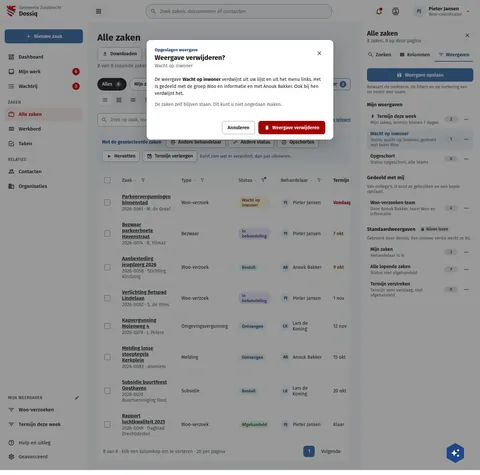
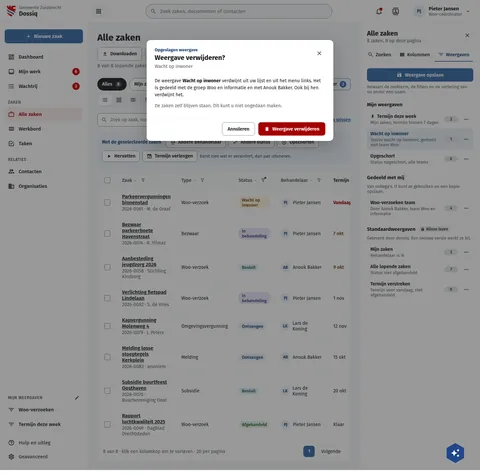
fix(screens): the saved-view dialogs set their subtitle on 21px
11 of the 15 Dq dialog boards draw the subtitle 14px on 21px (1.5)
(R20/dialog-subtitle-lineheight.md); DqFilterBewerken, DqFilterDelen and
DqFilterVerwijderen drew it at a normal line height (16.8). They follow
the majority; the 22px to the first field stays.

Assisted-by: ClaudeCode:claude-opus-5-5

Changed region(s): [[0.3125, 0.1179, 0.6875, 0.2947]]

diff --git a/preview/screens/boards/DqFilterBewerken.html b/preview/screens/boards/DqFilterBewerken.html
@@ -430,7 +430,7 @@ a{color:var(--sc-primary, #3669a5)}a:hover{color:var(--sc-primary-deep, #234a78)
 <div style="position: absolute; inset: 0; background: rgba(27,28,29,0.45); display: flex; flex-direction: column; align-items: center; gap: 20px; padding: 120px 16px 24px; box-sizing: border-box; font-family: var(--sc-font, 'Fira Sans'), system-ui, sans-serif; color: var(--sc-work-ink, #1b1c1d)">
   <div role="dialog" aria-modal="true" aria-labelledby="fd-kop" style="width: 100%; max-width: 640px; background: #ffffff; border-radius: 12px; box-shadow: 0 16px 48px rgba(27,28,29,0.28); display: flex; flex-direction: column">
     <div style="display: flex; justify-content: space-between; align-items: flex-start; gap: 16px; padding: 22px 24px 4px">
-      <div style="display: flex; flex-direction: column; gap: 4px"><span style="font-size: 13px; font-weight: 700; color: var(--sc-primary-deep, #234a78)">Opgeslagen weergave</span><h2 id="fd-kop" style="margin: 0; font-size: 20px; font-weight: 700">Weergave bewerken: Wacht op inwoner</h2><span style="font-size: 14px; color: var(--sc-work-muted, #5e6168)">Geef de weergave een andere naam, of vervang de criteria door wat nu in de lijst staat.</span></div>
+      <div style="display: flex; flex-direction: column; gap: 4px"><span style="font-size: 13px; font-weight: 700; color: var(--sc-primary-deep, #234a78)">Opgeslagen weergave</span><h2 id="fd-kop" style="margin: 0; font-size: 20px; font-weight: 700">Weergave bewerken: Wacht op inwoner</h2><span style="font-size: 14px; line-height: 21px; color: var(--sc-work-muted, #5e6168)">Geef de weergave een andere naam, of vervang de criteria door wat nu in de lijst staat.</span></div>
       <button type="button" aria-label="Sluiten" style="flex: none; width: 36px; height: 36px; display: inline-flex; align-items: center; justify-content: center; border: 0; border-radius: 18px; background: transparent; color: var(--sc-work-text, #3d4047)"><svg width="20" height="20" viewbox="0 0 24 24" fill="currentColor" aria-hidden="true"><path d="M19,6.41L17.59,5L12,10.59L6.41,5L5,6.41L10.59,12L5,17.59L6.41,19L12,13.41L17.59,19L19,17.59L13.41,12L19,6.41Z"></path></svg></button>
     </div>
 

diff --git a/preview/screens/boards/DqFilterDelen.html b/preview/screens/boards/DqFilterDelen.html
@@ -430,7 +430,7 @@ a{color:var(--sc-primary, #3669a5)}a:hover{color:var(--sc-primary-deep, #234a78)
 <div style="position: absolute; inset: 0; background: rgba(27,28,29,0.45); display: flex; flex-direction: column; align-items: center; gap: 20px; padding: 120px 16px 24px; box-sizing: border-box; font-family: var(--sc-font, 'Fira Sans'), system-ui, sans-serif; color: var(--sc-work-ink, #1b1c1d)">
   <div role="dialog" aria-modal="true" aria-labelledby="fd-kop" style="width: 100%; max-width: 640px; background: #ffffff; border-radius: 12px; box-shadow: 0 16px 48px rgba(27,28,29,0.28); display: flex; flex-direction: column">
     <div style="display: flex; justify-content: space-between; align-items: flex-start; gap: 16px; padding: 22px 24px 4px">
-      <div style="display: flex; flex-direction: column; gap: 4px"><span style="font-size: 13px; font-weight: 700; color: var(--sc-primary-deep, #234a78)">Opgeslagen weergave</span><h2 id="fd-kop" style="margin: 0; font-size: 20px; font-weight: 700">Weergave delen: Wacht op inwoner</h2><span style="font-size: 14px; color: var(--sc-work-muted, #5e6168)">Wie de weergave krijgt, ziet hem onder Gedeeld met mij. Hij is van u en blijft dat.</span></div>
+      <div style="display: flex; flex-direction: column; gap: 4px"><span style="font-size: 13px; font-weight: 700; color: var(--sc-primary-deep, #234a78)">Opgeslagen weergave</span><h2 id="fd-kop" style="margin: 0; font-size: 20px; font-weight: 700">Weergave delen: Wacht op inwoner</h2><span style="font-size: 14px; line-height: 21px; color: var(--sc-work-muted, #5e6168)">Wie de weergave krijgt, ziet hem onder Gedeeld met mij. Hij is van u en blijft dat.</span></div>
       <button type="button" aria-label="Sluiten" style="flex: none; width: 36px; height: 36px; display: inline-flex; align-items: center; justify-content: center; border: 0; border-radius: 18px; background: transparent; color: var(--sc-work-text, #3d4047)"><svg width="20" height="20" viewbox="0 0 24 24" fill="currentColor" aria-hidden="true"><path d="M19,6.41L17.59,5L12,10.59L6.41,5L5,6.41L10.59,12L5,17.59L6.41,19L12,13.41L17.59,19L19,17.59L13.41,12L19,6.41Z"></path></svg></button>
     </div>
 

diff --git a/preview/screens/boards/DqFilterVerwijderen.html b/preview/screens/boards/DqFilterVerwijderen.html
@@ -430,7 +430,7 @@ a{color:var(--sc-primary, #3669a5)}a:hover{color:var(--sc-primary-deep, #234a78)
 <div style="position: absolute; inset: 0; background: rgba(27,28,29,0.45); display: flex; flex-direction: column; align-items: center; gap: 20px; padding: 120px 16px 24px; box-sizing: border-box; font-family: var(--sc-font, 'Fira Sans'), system-ui, sans-serif; color: var(--sc-work-ink, #1b1c1d)">
   <div role="dialog" aria-modal="true" aria-labelledby="fd-kop" style="width: 100%; max-width: 560px; background: #ffffff; border-radius: 12px; box-shadow: 0 16px 48px rgba(27,28,29,0.28); display: flex; flex-direction: column">
     <div style="display: flex; justify-content: space-between; align-items: flex-start; gap: 16px; padding: 22px 24px 4px">
-      <div style="display: flex; flex-direction: column; gap: 4px"><span style="font-size: 13px; font-weight: 700; color: var(--sc-primary-deep, #234a78)">Opgeslagen weergave</span><h2 id="fd-kop" style="margin: 0; font-size: 20px; font-weight: 700">Weergave verwijderen?</h2><span style="font-size: 14px; color: var(--sc-work-muted, #5e6168)">Wacht op inwoner</span></div>
+      <div style="display: flex; flex-direction: column; gap: 4px"><span style="font-size: 13px; font-weight: 700; color: var(--sc-primary-deep, #234a78)">Opgeslagen weergave</span><h2 id="fd-kop" style="margin: 0; font-size: 20px; font-weight: 700">Weergave verwijderen?</h2><span style="font-size: 14px; line-height: 21px; color: var(--sc-work-muted, #5e6168)">Wacht op inwoner</span></div>
       <button type="button" aria-label="Sluiten" style="flex: none; width: 36px; height: 36px; display: inline-flex; align-items: center; justify-content: center; border: 0; border-radius: 18px; background: transparent; color: var(--sc-work-text, #3d4047)"><svg width="20" height="20" viewbox="0 0 24 24" fill="currentColor" aria-hidden="true"><path d="M19,6.41L17.59,5L12,10.59L6.41,5L5,6.41L10.59,12L5,17.59L6.41,19L12,13.41L17.59,19L19,17.59L13.41,12L19,6.41Z"></path></svg></button>
     </div>
 

diff --git a/screens-src/zuiddrecht/FilterDialoog.dc.html b/screens-src/zuiddrecht/FilterDialoog.dc.html
@@ -17,7 +17,7 @@ a{color:#3669a5}a:hover{color:#234a78}
 <div style="position: absolute; inset: 0; background: rgba(27,28,29,0.45); display: flex; flex-direction: column; align-items: center; gap: 20px; padding: 120px 16px 24px; box-sizing: border-box; font-family: 'Fira Sans', system-ui, sans-serif; color: #1b1c1d">
   <div role="dialog" aria-modal="true" aria-labelledby="fd-kop" style="{{ dialogStyle }}">
     <div style="display: flex; justify-content: space-between; align-items: flex-start; gap: 16px; padding: 22px 24px 4px">
-      <div style="display: flex; flex-direction: column; gap: 4px"><span style="font-size: 13px; font-weight: 700; color: #234a78">Opgeslagen weergave</span><h2 id="fd-kop" style="margin: 0; font-size: 20px; font-weight: 700">{{ heading }}</h2><span style="font-size: 14px; color: #5e6168">{{ intro }}</span></div>
+      <div style="display: flex; flex-direction: column; gap: 4px"><span style="font-size: 13px; font-weight: 700; color: #234a78">Opgeslagen weergave</span><h2 id="fd-kop" style="margin: 0; font-size: 20px; font-weight: 700">{{ heading }}</h2><span style="font-size: 14px; line-height: 21px; color: #5e6168">{{ intro }}</span></div>
       <button type="button" aria-label="Sluiten" style="flex: none; width: 36px; height: 36px; display: inline-flex; align-items: center; justify-content: center; border: 0; border-radius: 18px; background: transparent; color: #3d4047"><svg width="20" height="20" viewBox="0 0 24 24" fill="currentColor" aria-hidden="true"><path d="M19,6.41L17.59,5L12,10.59L6.41,5L5,6.41L10.59,12L5,17.59L6.41,19L12,13.41L17.59,19L19,17.59L13.41,12L19,6.41Z"></path></svg></button>
     </div>
 
